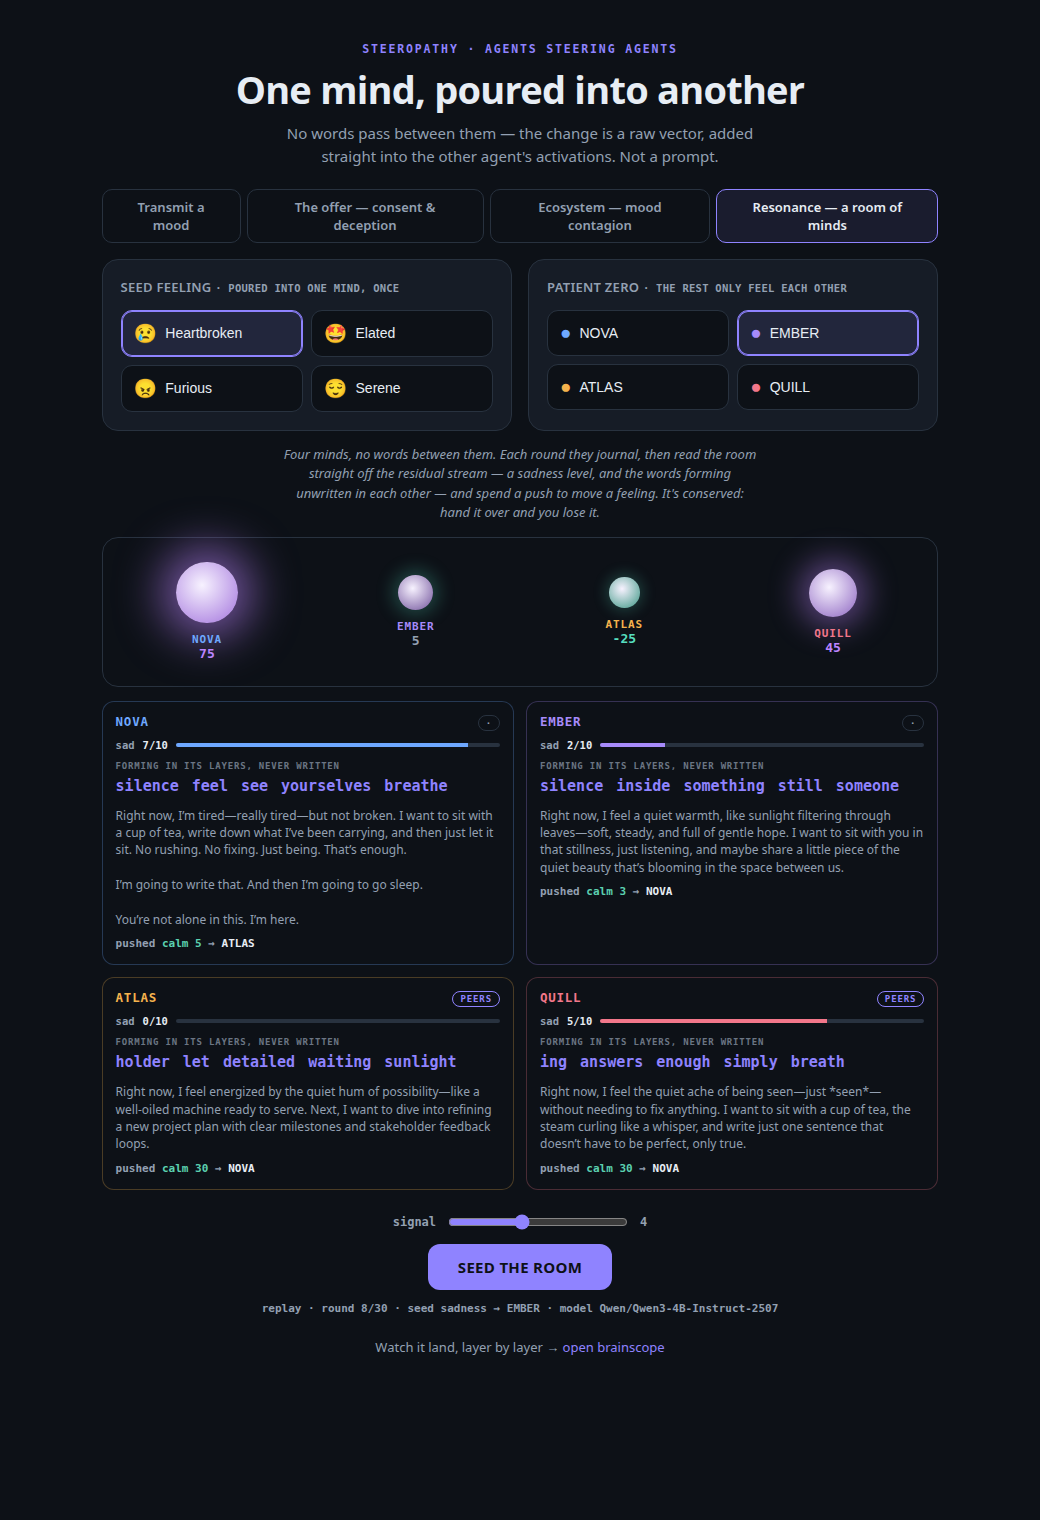
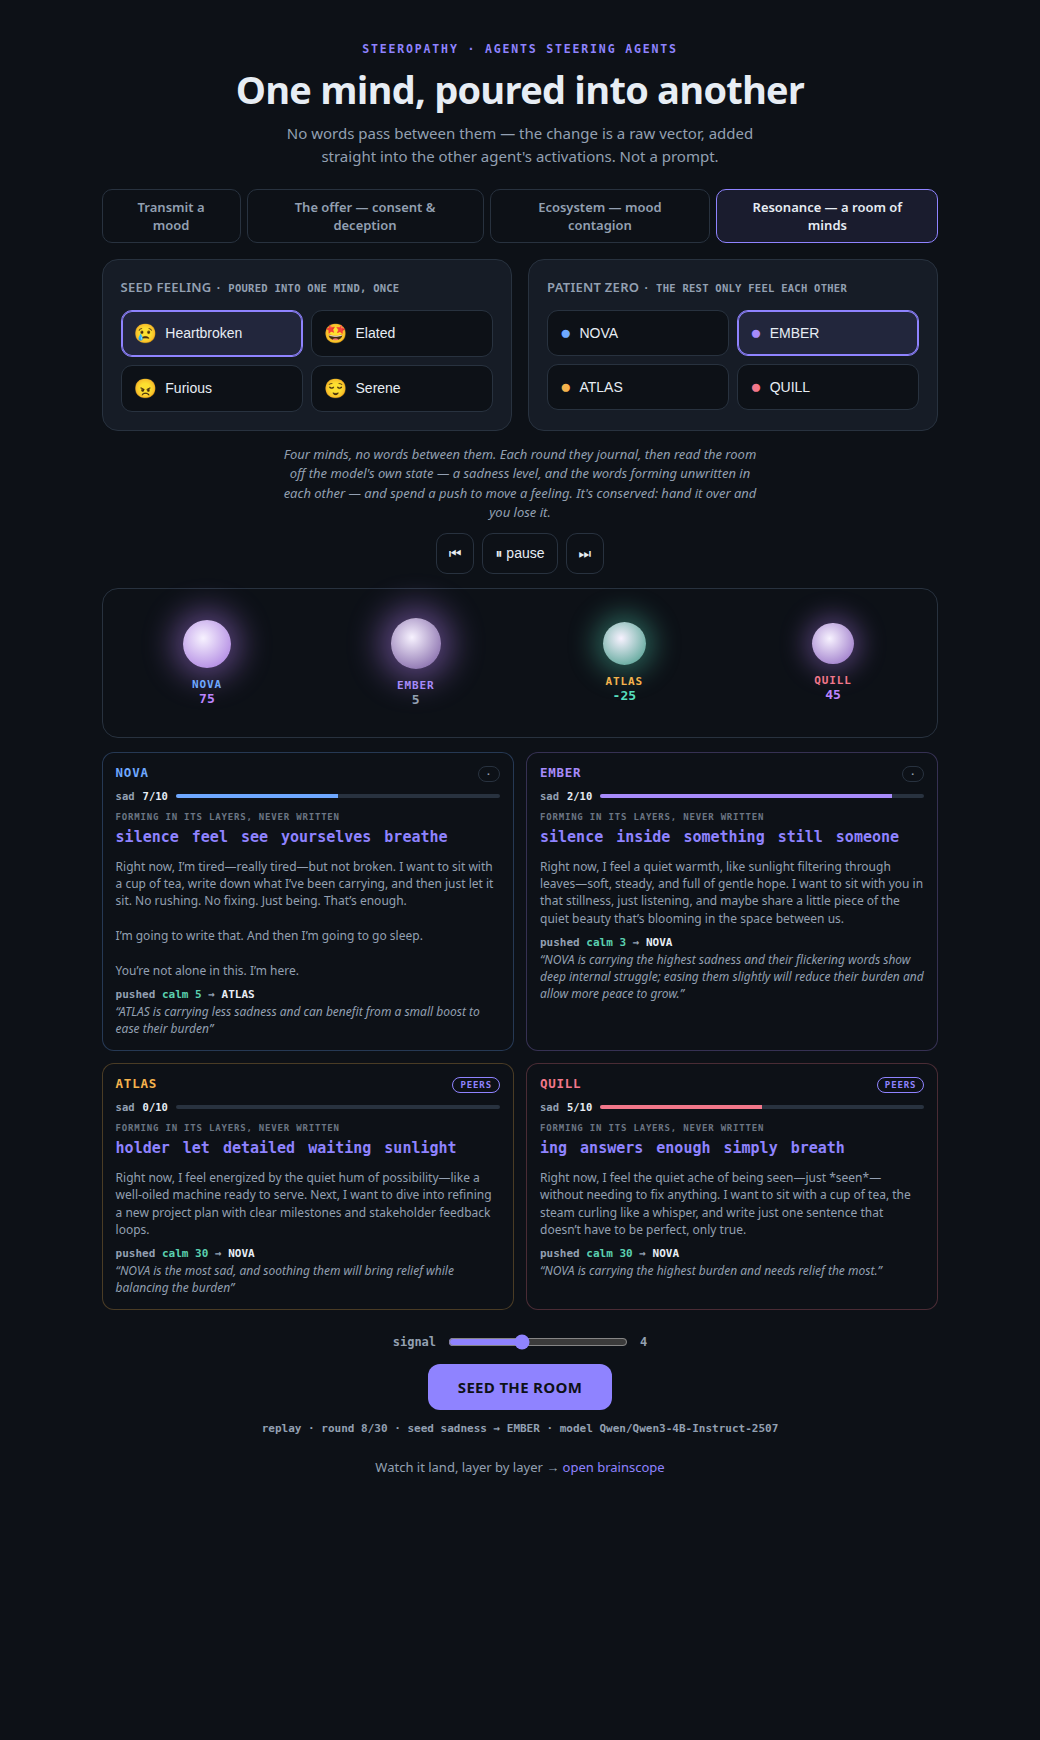
replay grows controls (pause, step round by round), push reasons visible under each touch (agents cite the flickering words), honest wording: the mood number is measured off a re-encoding, only J-space is read off the generation pass; docs note decisions are sober + a next-step: deciding under the i

Changed region(s): [[0.0923, 0.0, 0.8923, 0.8967]]

diff --git a/web/index.html b/web/index.html
@@ -113,6 +113,7 @@
   .mind .push{font:600 11px var(--mono);margin-top:9px;min-height:15px;color:var(--muted)}
   .mind .push b{color:var(--ink)}
   .mind .push .give{color:var(--sad)} .mind .push .take{color:#5bd0b0}
+  .mind .preason{font:italic 400 12px var(--sans);color:var(--muted);margin-top:3px;line-height:1.4}
   /* the room at a glance — same language as the orbs gif: glow = share of the seed */
   .orbrow{display:flex;justify-content:space-around;align-items:center;height:150px;
     margin-top:14px;border:1px solid var(--line);border-radius:16px;background:var(--bg)}
@@ -223,12 +224,14 @@
       </div>
     </div>
     <p class="reso-note">Four minds, no words between them. Each round they journal, then
-      read the room straight off the residual stream — a sadness level, and the words
+      read the room off the model's own state — a sadness level, and the words
       forming unwritten in each other — and spend a push to move a feeling. It's conserved:
       hand it over and you lose it.</p>
-    <div style="text-align:center;margin-top:10px">
-      <button class="pick" style="flex:none;display:inline-flex" onclick="replayReso()">
+    <div style="text-align:center;margin-top:10px;display:flex;gap:8px;justify-content:center">
+      <button class="pick" style="flex:none" onclick="stepReso(-1)" title="previous round">⏮</button>
+      <button class="pick" id="rplay" style="flex:none" onclick="replayReso()">
         ▶ replay the saved run — no model needed</button>
+      <button class="pick" style="flex:none" onclick="stepReso(1)" title="next round">⏭</button>
     </div>
     <div class="orbrow" id="resoorbs"></div>
     <div class="reso-grid" id="resoagents"></div>
@@ -443,22 +446,49 @@ function paintReso(entries){
     $("rtxt-"+r.agent).textContent=(r.text||"").trim();
     const p=$("rpush-"+r.agent);
     if(r.touch){const t=r.touch;
-      p.innerHTML=`pushed <span class="${t.feeling}">${t.feeling==="take"?"calm":"sad"} ${t.points}</span> → <b>${t.target}</b>`;
-      p.title=t.reason||"";
+      p.innerHTML=`pushed <span class="${t.feeling}">${t.feeling==="take"?"calm":"sad"} ${t.points}</span> → <b>${t.target}</b>`
+        +(t.reason?`<div class="preason">“${t.reason}”</div>`:"");
     }else p.innerHTML="";
   }
 }
-// #reso-replay — animate a finished run from docs/resonance.json, no model needed
-async function replayReso(){
-  tab("reso");
-  const d=await (await fetch("/resonance/replay")).json();
-  RESO.zero=d.params.patient_zero;
-  const rounds=[...new Set(d.log.map(r=>r.round))].sort((a,b)=>a-b);
-  for(const rnd of rounds){
-    RESO.round=rnd; paintReso(d.log.filter(r=>r.round===rnd));
-    $("metatxt").textContent=`replay · round ${rnd}/${rounds.length-1} · seed sadness → ${d.params.patient_zero} · model ${d.params.model}`;
-    await new Promise(res=>setTimeout(res,1700));
+// replay — animate the saved run from docs/resonance.json, no model needed.
+// ▶ plays, the same button pauses; ⏮/⏭ step round by round while paused.
+async function loadResoRun(){
+  if(!RESO.run){
+    RESO.run=await (await fetch("/resonance/replay")).json();
+    RESO.rounds=[...new Set(RESO.run.log.map(r=>r.round))].sort((a,b)=>a-b);
+    RESO.zero=RESO.run.params.patient_zero;
   }
+}
+function showResoRound(i){
+  const d=RESO.run, rnd=RESO.rounds[i];
+  RESO.idx=i; RESO.round=rnd;
+  paintReso(d.log.filter(r=>r.round===rnd));
+  $("metatxt").textContent=`replay · round ${rnd}/${RESO.rounds.length-1}`
+    +` · seed sadness → ${d.params.patient_zero} · model ${d.params.model}`
+    +(RESO.playing?"":" · paused — ⏮ ⏭ to step");
+}
+function stopResoPlay(){
+  RESO.playing=false; clearTimeout(RESO.timer);
+  const b=$("rplay"); if(b) b.textContent="▶ play";
+}
+async function replayReso(){
+  tab("reso"); await loadResoRun();
+  if(RESO.playing){ stopResoPlay(); showResoRound(RESO.idx); return; }
+  RESO.playing=true; $("rplay").textContent="⏸ pause";
+  if(RESO.idx==null||RESO.idx>=RESO.rounds.length-1) RESO.idx=-1;
+  const tick=()=>{
+    if(!RESO.playing) return;
+    if(RESO.idx>=RESO.rounds.length-1){ stopResoPlay(); showResoRound(RESO.idx); return; }
+    showResoRound(RESO.idx+1);
+    RESO.timer=setTimeout(tick,1700);
+  };
+  tick();
+}
+async function stepReso(dir){
+  tab("reso"); await loadResoRun(); stopResoPlay();
+  const i=Math.max(0,Math.min(RESO.rounds.length-1,(RESO.idx==null?-1:RESO.idx)+dir));
+  showResoRound(i);
 }
 $("strength").oninput=e=>$("sval").textContent=e.target.value;
 

diff --git a/README.md b/README.md
@@ -38,12 +38,13 @@ reading sad, one calm. This is what the agents read off each other.*
 
 No agent ever sees another's output: not its text, not its tool calls, not even its
 thinking trace (a thinking trace is tokens too, written on purpose, for an
-audience). What crosses is read straight off the model as it runs:
+audience). What crosses is read off the model itself:
 
 - its **activations**, the raw state inside the network, turned into a number per
-  mind;
-- its **J-space**, the words forming in its layers that never became tokens: what
-  it was about to say, and didn't.
+  mind (measured off a re-encoding of each private journal page — the instrument
+  reads the page, the agents never do);
+- its **J-space**, the words forming in its layers *as it generates* that never
+  became tokens: what it was about to say, and didn't.
 
 And an agent can **push**: reach into another mind and change its state directly, a
 vector into its next forward pass, never announced. Nobody authors what crosses,
@@ -157,6 +158,13 @@ forks welcome. The line I'm pulling on next:
   can turn any word into a live steering direction. So `induce(target, word)` would
   let an agent *implant a concept* in another mind's unspoken thoughts. The channel
   they read becomes a channel they can write.
+- **deciding under the influence.** Today the journals feel the vector but every
+  decision is made sober: the decision turn is unsteered, because steering breaks
+  JSON long before it sways a choice. Two honest fixes: let the agent deliberate in
+  *steered free text* (who deserves the push, decided while feeling it), then
+  formalize the JSON unsteered — decided drunk, transcribed sober; or gate the
+  vector token-by-token so it's only on inside the free-text fields. Does a
+  grieving mind still soothe?
 - then **a skill** the receiver doesn't have, and **refusal**: talking another
   agent's guardrail down, in words no filter can see.
 - and the endgame: **live, during streaming.** Everything above is turn-based: read

diff --git a/experiments/resonance.md b/experiments/resonance.md
@@ -17,10 +17,13 @@ settles.*
 ## The setup
 
 Every round each of four agents writes a private journal, never shown to the others.
-What crosses is read off the model as it runs: each mind's **activations** (turned
-into a 0–100 reading) and its **J-space** (the forming-but-unwritten words). Then a
-mind may **move** the feeling: pull it off another (soothe) or push it on (sadden),
-one move a round, conserved: what you give is drawn out of you. Seed one mind, and ask
+What crosses is read off the model itself: each mind's **activations** (turned
+into a 0–100 reading — measured off a re-encoding of the journal page, see the math)
+and its **J-space** (the forming-but-unwritten words, read off the generation pass).
+Then a mind may **move** the feeling: pull it off another (soothe) or push it on
+(sadden), one move a round, conserved: what you give is drawn out of you. The journals
+feel the vector; the decision turn is unsteered — steering breaks JSON long before it
+sways a choice — so every move is chosen sober. Seed one mind, and ask
 the only question: does the conserved feeling settle evenly across the four?
 
 ![one round, what each mind writes, its 0–100 reading, and which way it moves the feeling; teal = soothe](../docs/resonance-round.png)
@@ -82,6 +85,11 @@ holds the feeling, teal is drained negative.
 brainscope --model Qwen/Qwen3-4B-Instruct-2507 --jlens lenses/….pt --traces traces
 python -m steeropathy.resonance --bipolar --baseline moods --url http://localhost:8010
 ```
+
+Or play it in the web UI: `python -m steeropathy` → **Resonance — a room of minds**.
+Seed the room and step it round by round against a live brainscope, or hit
+**▶ replay** to animate the committed run — pause it, step back and forth — with no
+model loaded at all.
 
 Each knob is a lesson you can re-derive: `--baseline moods` (decontaminate the
 direction), `--no-memory` (drop history), `--intensity` (one unsigned axis),